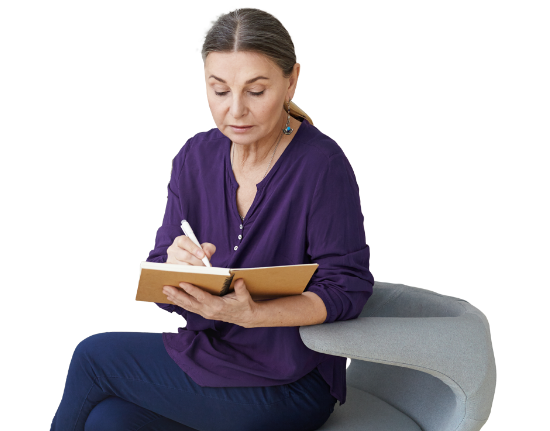
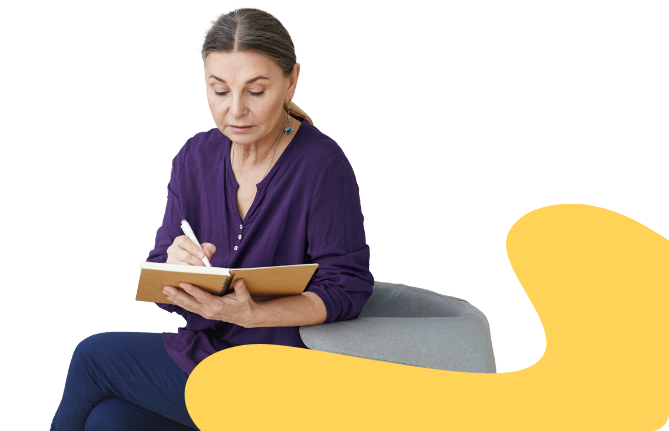
Ajustes contenido

diff --git a/src/views/Tema3.vue b/src/views/Tema3.vue
@@ -33,24 +33,24 @@
           .col-lg-5.my-3  
             img.img-a.img-t(data-aos="zoom-in")(src='@/assets/curso/temas/22.svg', alt='')   
 
-    p(data-aos="fade-down") Se explican aspectos a tener presentes en los encuentros.
+    p.mt-4(data-aos="fade-down") Se explican aspectos a tener presentes en los encuentros.
 
-    .row.justify-content-center.align-items-center.mb-4
-      .col-lg-4.my-3  
+    .row.justify-content-center.align-items-center
+      .col-lg-4.d-none.d-lg-block  
         img.img-a.img-t(data-aos="zoom-in")(src='@/assets/curso/temas/22.png', alt='')      
-      .col-lg-8.my-3
+      .col-lg-8.my-lg-3
         AcordionA(tipo="b" clase-tarjeta="tarjeta bg7")(data-aos="fade-down")
           div(titulo="Metodologías adecuadas") Para todos los encuentros, los profesionales que conforman la UAF, con apoyo de la UAT, deben planear metodologías adecuadas para abordar los temas con los diferentes grupos etarios (niños- niñas, adolescentes y adultos) u otras características de las familias y personas que participen. Los temas desarrollados son de interés de todas las familias y visibilizan aspectos particulares relacionados con las PcD y sus familias u otro tema diferencial. Así mismo estos temas complementan lo abordado en las visitas, de acuerdo con las particularidades e intereses de las familias.
           div(titulo="Participación de integrantes") Es importante que los encuentros promuevan la participación de varios integrantes de la familia, no solamente de padres, madres o cuidadores. Asimismo, Mi familia tiene a su disposición material metodológico de referencia en donde el PAF puede apoyarse para integrar a todos los integrantes de la familia independientemente de sus condiciones particulares, para avanzar en la participación efectiva de niños, niñas y adolescentes y otros integrantes con discapacidad, estos materiales deben incorporar ajustes razonables intencionados y claros, a nivel actitudinal, metodológico y para la accesibilidad. 
           div(titulo="Concreción de actividades") Se espera que en encuentros los integrantes de las familias participen en condiciones de igualdad y de manera efectiva. Como resultado de estos encuentros se busca que las familias participantes concreten actividades, alternativas y compromisos para eliminar barreras de acceso y participación, en especial en sus contextos comunitarios más inmediatos.  
 
     .row.justify-content-center.align-items-center.mb-4
-      .col-lg-8.my-3
+      .col-lg-8.my-lg-3
         AcordionA(tipo="b" clase-tarjeta="tarjeta bg7")(data-aos="fade-down")
           div(titulo="Acciones grupales") En los encuentros se pueden desarrollar acciones grupales relacionadas con la gestión de redes, por ejemplo, invitar a referentes institucionales para la socialización de una oferta en particular, la población a la que va dirigido, los requisitos para el ingreso, los beneficios que se ofrecen, entre otros. Si el operador así lo considera podrá disponer de alguno de los encuentros para ser dedicado por completo a esta temática, teniendo en cuenta el mapeo territorial realizado durante la implementación de la modalidad.
           div(titulo="Reconocimiento de particularidades") Los encuentros (todos en general) deben reconocer las necesidades de las familias con personas con discapacidad, toda vez que, la dinámica de estas familias presenta una serie de particularidades que deben ser foco de atención al momento de realizar acciones de fortalecimiento e intervención. El reconocimiento de estas particularidades surge mediante el contacto directo con las familias en las visitas en domicilio, espacio en el cual debe hacerse una lectura de la familia, de las relaciones que se entretejen en su cotidianidad y las que surgen alrededor del cuidado de la persona con discapacidad u otras vulneraciones.        
           div(titulo="Estrategias lúdicas") Es posible en los encuentros usar estrategias enmarcadas en apuestas lúdicas, contemplar el juego, estudios de caso, soportarse en tecnologías de la información y la comunicación, dinamizarse mediante diálogos de saberes, participación de agentes y entidades del SNBF, todas pensadas en incluir a las familias con PcD u otros diferenciales.                
-      .col-lg-4.my-3  
+      .col-lg-4.my-3.d-none.d-lg-block  
         img.img-a.img-t(data-aos="zoom-in")(src='@/assets/curso/temas/23.png', alt='')      
 
     .row.justify-content-center.align-items-start          

diff --git a/src/views/Tema4.vue b/src/views/Tema4.vue
@@ -12,7 +12,7 @@
       .col-lg-8.my-3
         p(data-aos="fade-down") #[martk.t1 Son propuestas de orden colectivo o comunitario que presentan las familias participantes de Mi Familia Rural y tienen como propósito aportar al desarrollo del territorio o de la comunidad, buscando potenciar la generación de factores protectores para el desarrollo de las niñas, niños, adolescentes y sus familias (ICBF,2023). ]
         .bg11.p-4
-          p(data-aos="fade-down").mb-0 Son propuestas de orden colectivo o comunitario que presentan las familias participantes de Mi Familia Rural y tienen como propósito aportar al desarrollo del territorio o de la comunidad, buscando potenciar la generación de factores protectores para el desarrollo de las niñas, niños, adolescentes y sus familias (ICBF,2023).         
+          p(data-aos="fade-down").mb-0 Estas se deberán desarrollar a través de la generación e implementación de un plan de acción que se construye en los encuentros comunitarios, con el objetivo de incentivar la autogestión y el desarrollo de acciones comunitarias que promuevan el desarrollo y la protección integral de los niños, niñas y adolescentes y sus familias. Si bien el PAF y las UAT orientan el proceso, esta iniciativa parte de las familias pues se busca fortalecer a la comunidad como un entorno protector de las familias y sus integrantes.         
         
 </template>
 

diff --git a/src/views/Tema2.vue b/src/views/Tema2.vue
@@ -95,7 +95,7 @@
       .col.my-3
         p(data-aos="fade-down").mb-0 Los métodos que parten de las experiencias previas de la familia, como metodología experiencial, contemplan la reflexión y análisis de las prácticas cotidianas, de las consecuencias de estas en la vida familiar o en el desarrollo de los niños, niñas o adolescentes y sus familias y finalmente una verbalización de los objetivos personales y familiares de cambio. De acuerdo con esta consideración, los resultados esperados de la visita en domicilio “#[mark.t1 no se consigue a través de charlas o discursos basados en el «deber ser», sino mediante procedimientos que generen reflexión y análisis personal”. Rodrigo, Máiquez, & Martín (2010, pág. 22)]. A continuación, se desarrolla los momentos que conforma la visita.  
     .row.justify-content-center.align-items-center.mb-4
-      .col-lg-4.my-3  
+      .col-lg-4.my-3.d-none.d-lg-block  
         img.img-a.img-t(data-aos="zoom-in")(src='@/assets/curso/temas/18.png', alt='')      
       .col-lg-8.my-3
         AcordionA(tipo="b" clase-tarjeta="tarjeta bg7")(data-aos="fade-down")

diff --git a/src/styles/_variables.sass b/src/styles/_variables.sass
@@ -184,8 +184,8 @@ $bp-max-xs: 576px
 .actividad
   background-color: #F2F2F2  
 // Imágen banner principal -----------------------------
-$banner-principal-img-y: '' // 'arriba','abajo',''
-$banner-principal-img-x: '' // 'derecha',''
+$banner-principal-img-y: 'abajo' // 'arriba','abajo',''
+$banner-principal-img-x: 'derecha' // 'derecha',''
 
 // .tarjeta-avatar -----------------------------------
 $tarjeta-avatar-b-ancho-img: 20%
